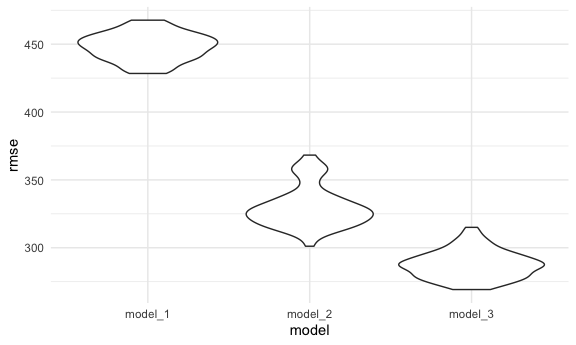
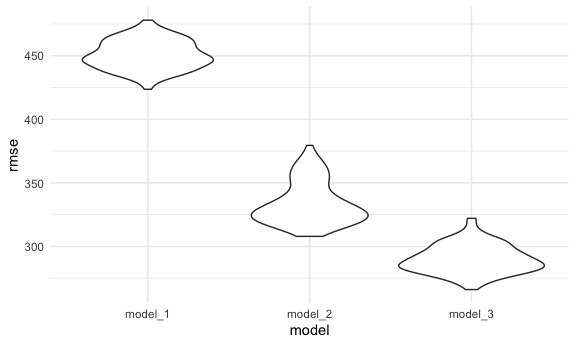
Finished problem 2

diff --git a/p8105_hw6_hz2711.md b/p8105_hw6_hz2711.md
@@ -204,12 +204,17 @@ birthweight_cv %>%
 ```
 
 <img src="p8105_hw6_hz2711_files/figure-gfm/unnamed-chunk-3-1.png" width="90%" />
-As the plot shown, model\_1 has the best distribution of RMSE, and the
-model with main effect only has the worst distribution of RMSE.
+
+The plots reveal that model\_3 has the best distribution of RMSE, and
+the model I selected based on a literature review actually has by far
+the worst distribution of RMSE. Therefore, it would probably be wise to
+develop a model from data-driven model building process.
 
 
 
     # Problem 2
+
+    Use 5000 bootstrap samples and, for each bootstrap sample, produce estimates of r^2 and log(beta0 * beta1)
 
 
     ```r
@@ -234,3 +239,91 @@ model with main effect only has the worst distribution of RMSE.
     ## date created (size, mb): 2021-12-03 14:51:07 (7.614)
 
     ## file min/max dates: 1869-01-01 / 2021-11-30
+
+``` r
+set.seed(1)
+
+boot_sample = function(df) {
+  sample_frac(df, replace = TRUE)
+}
+
+#Get 5000 bootstrap samples
+r_squared =
+  weather_df %>% 
+  modelr::bootstrap(n = 5000) %>% 
+  mutate(
+    # simple linear model
+    models = map(strap, ~lm(tmax ~ tmin, data = .x)),
+    results = map(models, broom::glance)) %>%
+    select(-strap, -models) %>% 
+    unnest(results) 
+    
+r_squared %>% 
+  ggplot(aes(x = r.squared)) + 
+  geom_density() +
+  labs(
+  title = "Distribution of r_squared"
+  )
+```
+
+<img src="p8105_hw6_hz2711_files/figure-gfm/unnamed-chunk-5-1.png" width="90%" />
+
+``` r
+#log(beta0 * beta1)
+log_plot = 
+  weather_df %>% 
+  # Get 5000 bootstrap samples
+  modelr::bootstrap(n = 5000) %>% 
+  mutate(
+    models = map(strap, ~lm(tmax ~ tmin, data = .x)),
+    results = map(models, broom::tidy)) %>%
+    select(-strap, -models) %>% 
+    unnest(results) %>%
+    select(-std.error, -statistic, -p.value) %>% 
+    pivot_wider(
+    names_from = term, 
+    values_from = estimate
+    ) %>%
+    rename(beta_0 = "(Intercept)") %>%
+    mutate(logb0b1 = log(tmin*beta_0)
+    ) 
+         
+log_plot %>%
+  ggplot(aes(x = logb0b1)) + 
+  geom_density() +
+  labs(
+  title = "Distribution of log(b0*b1) values"
+  )
+```
+
+<img src="p8105_hw6_hz2711_files/figure-gfm/unnamed-chunk-6-1.png" width="90%" />
+
+Both the distributions of estimates of r squared and log(beta0 \* beta1)
+follow an approximately normal distribution.
+
+This is the 95% confidence interval for the r-squared and log of
+beta0\*beta1 distribution:
+
+``` r
+quantile(r_squared$r.squared, prob = c(0.025,0.975)) %>% 
+  knitr::kable(caption = "95% CI for r.squared")
+```
+
+|       |         x |
+|:------|----------:|
+| 2.5%  | 0.8936684 |
+| 97.5% | 0.9271060 |
+
+95% CI for r.squared
+
+``` r
+quantile(log_plot$logb0b1, prob = c(0.025,0.975)) %>% 
+  knitr::kable(caption = "95% CI for log product")
+```
+
+|       |        x |
+|:------|---------:|
+| 2.5%  | 1.964811 |
+| 97.5% | 2.058645 |
+
+95% CI for log product
